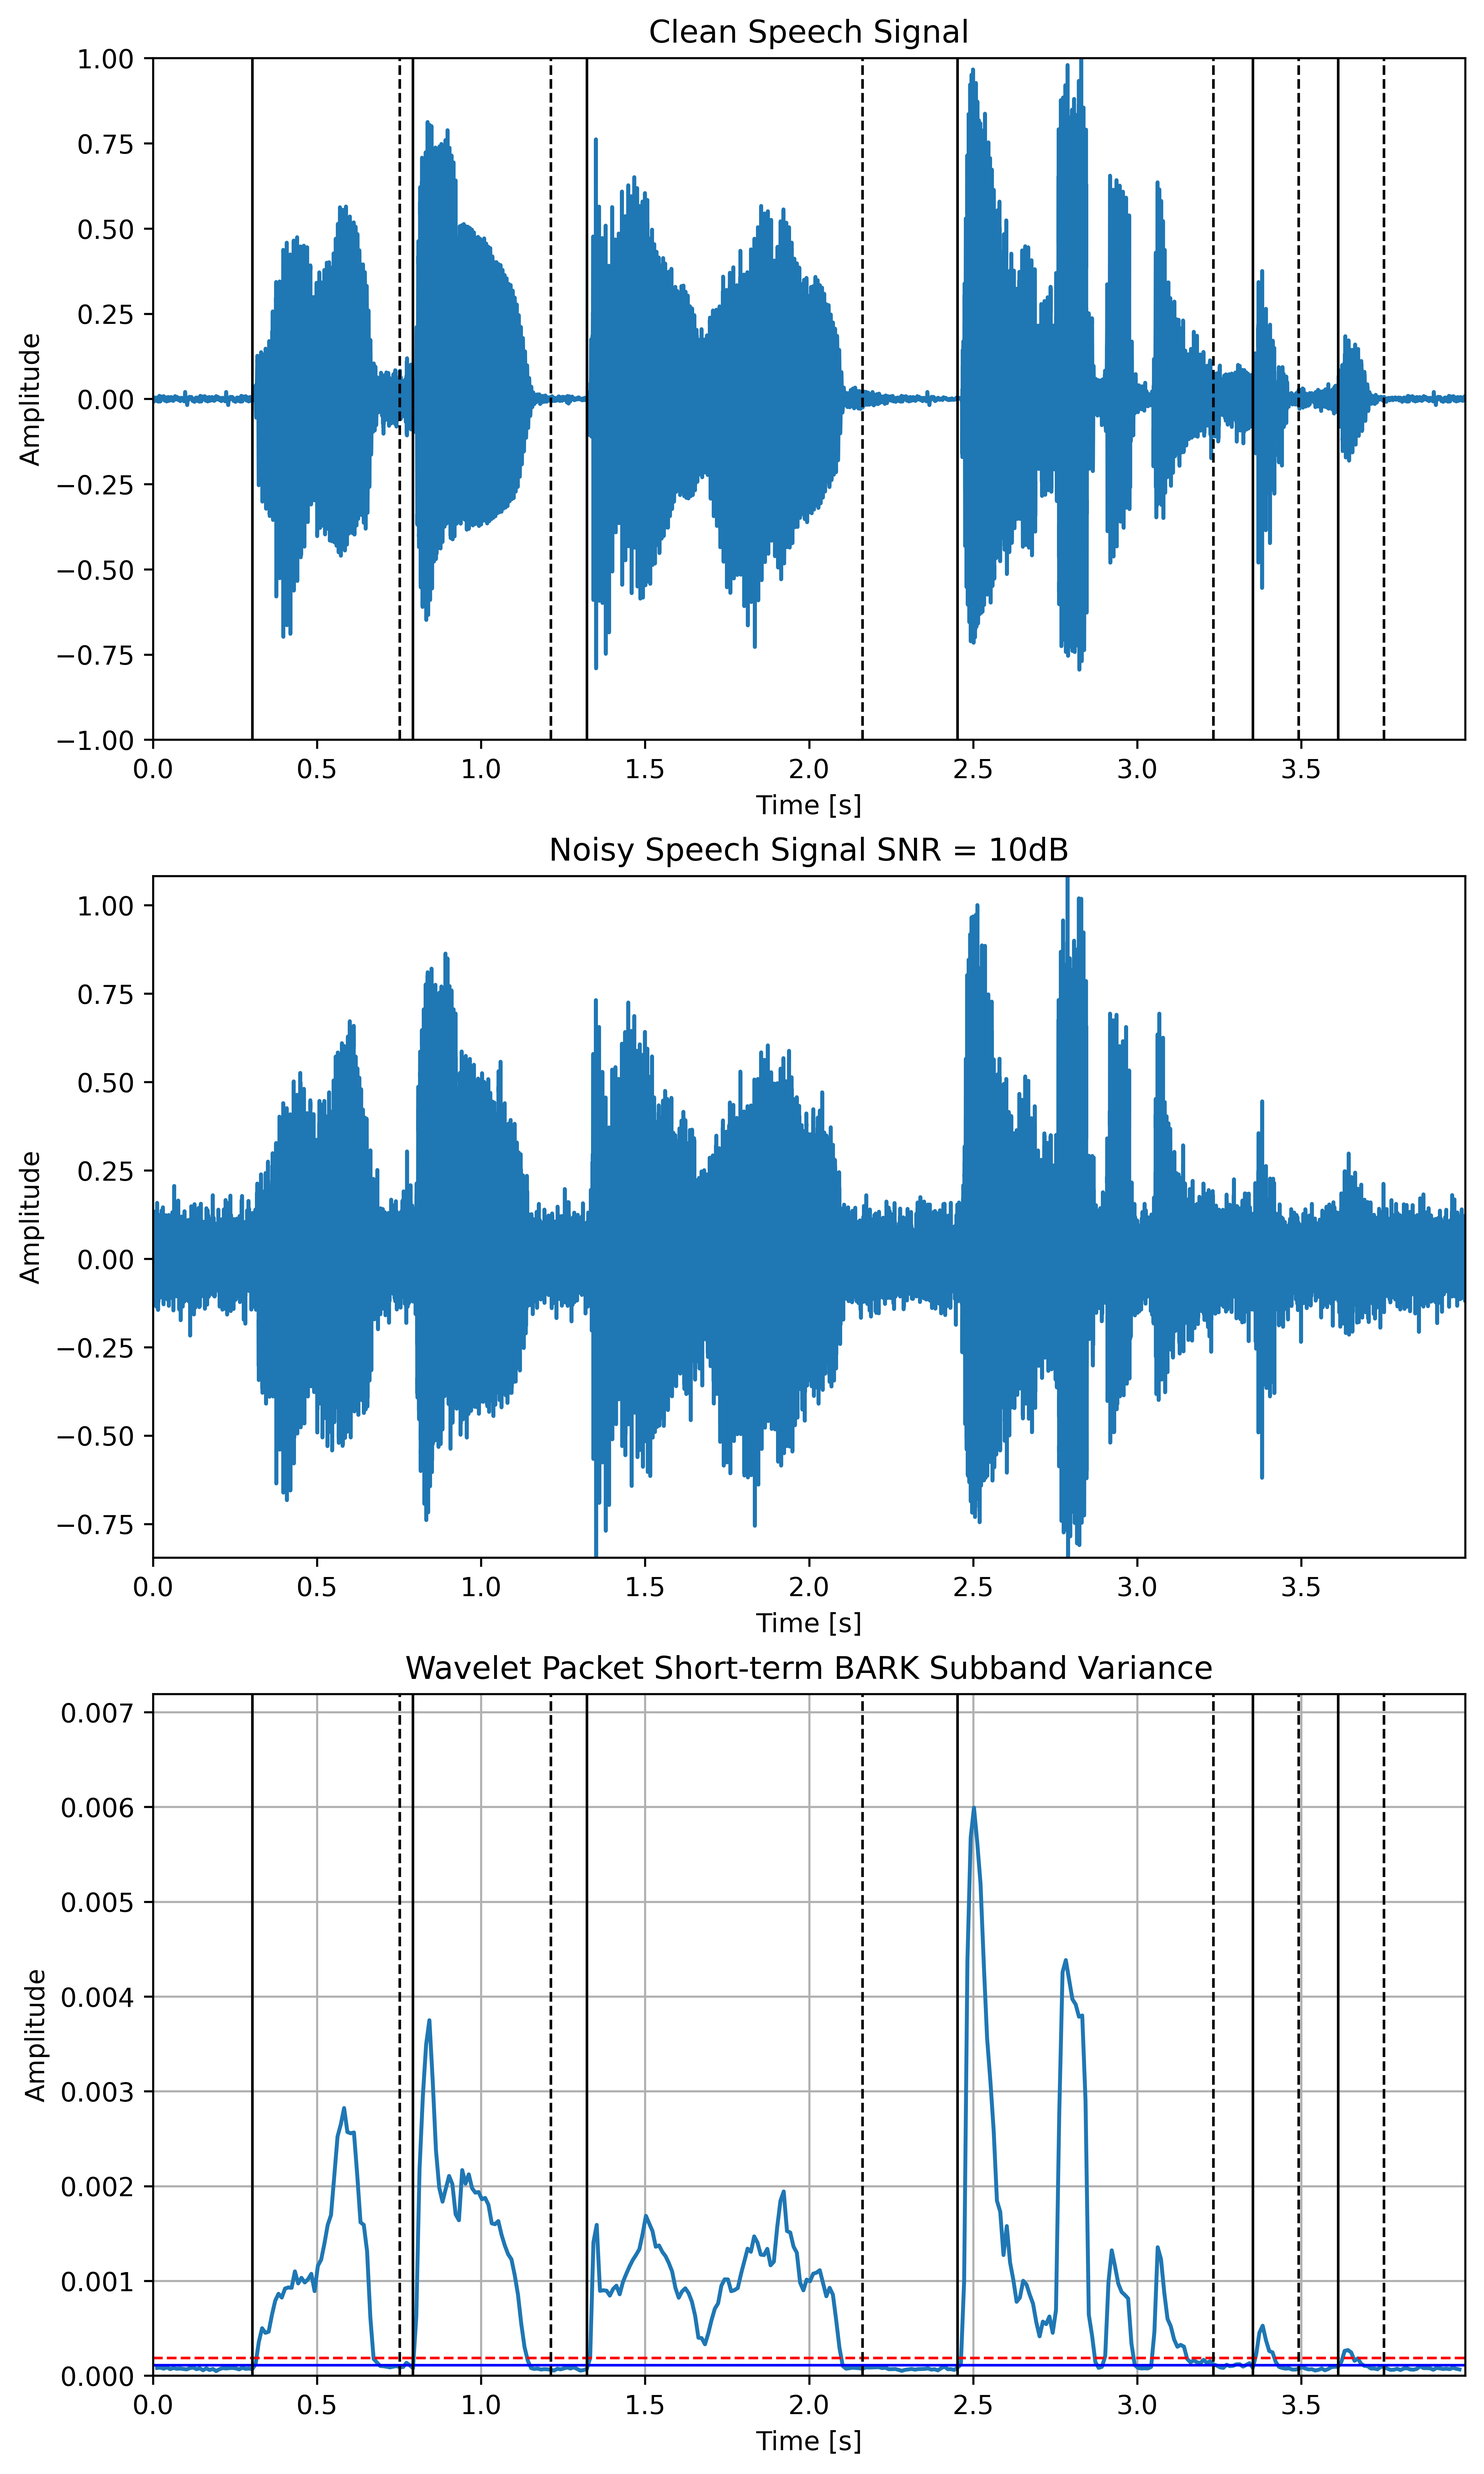
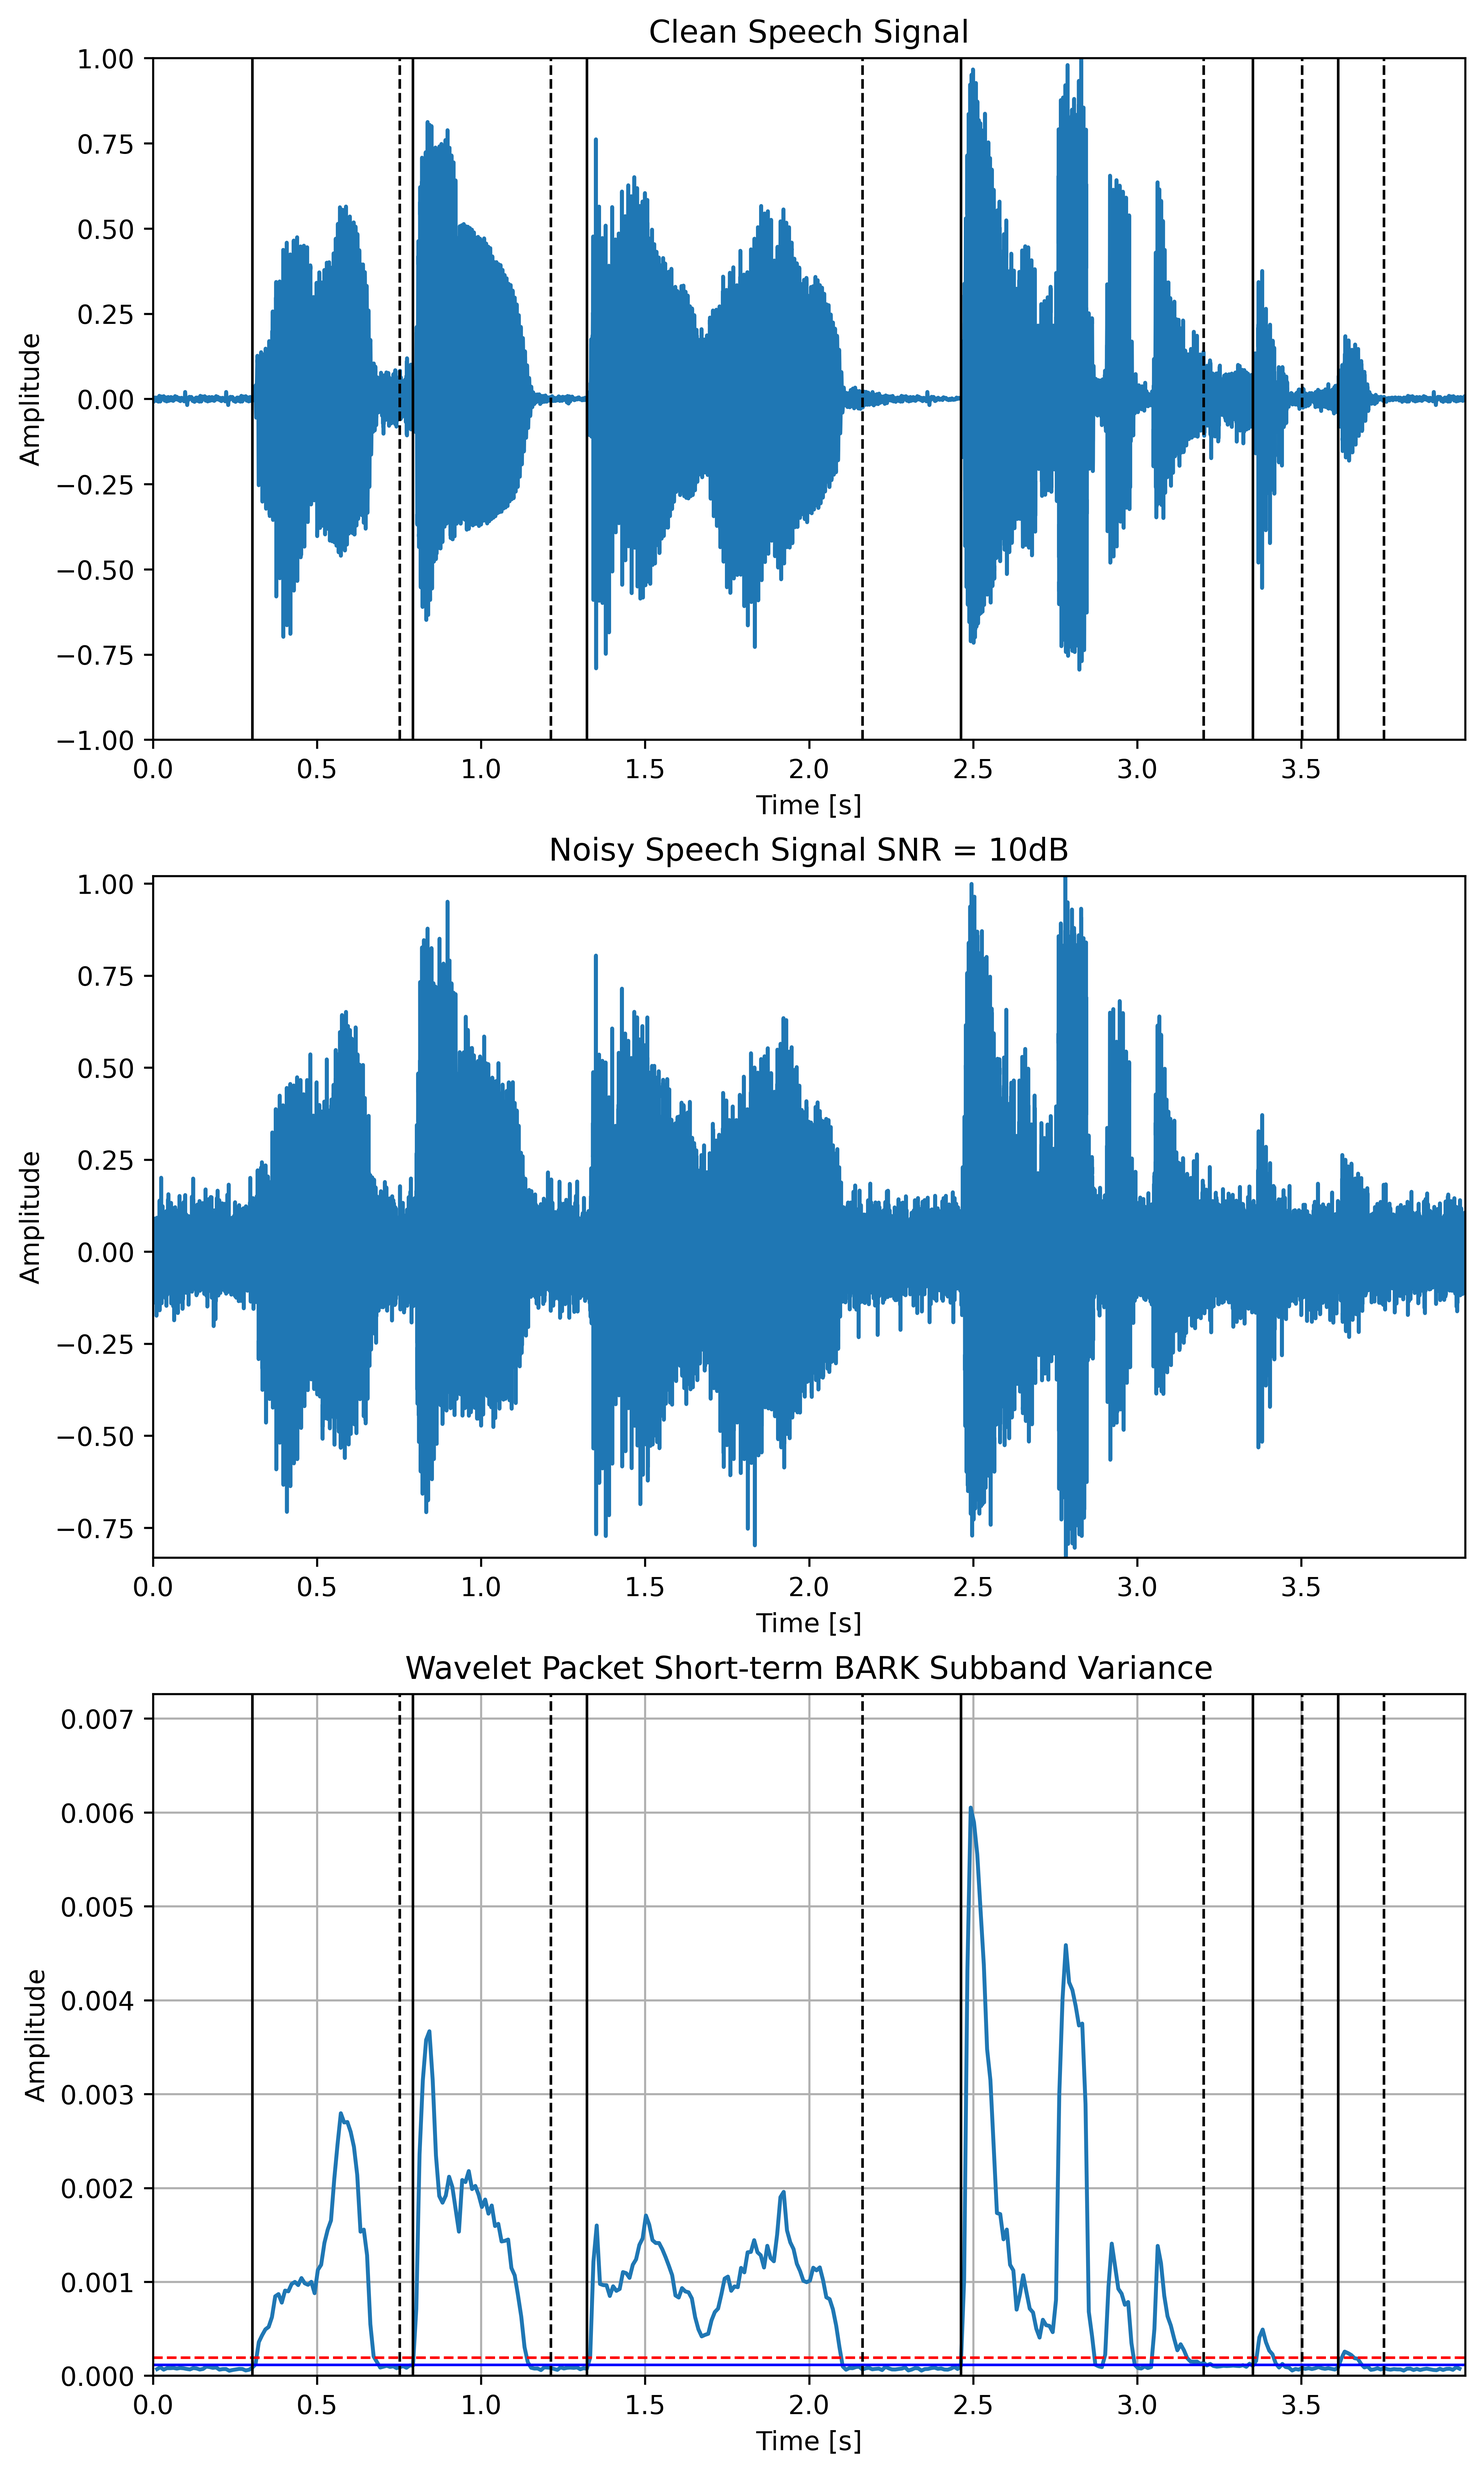
VAD(wavelet packet BASK sub-band variance)

diff --git a/Chapter6_EndpointDetection/pr6_4_4.py b/Chapter6_EndpointDetection/pr6_4_4.py
@@ -36,28 +36,28 @@ def wavlet_barkms(x,wname,fs):
 	for i in range(8):
 		new_wp[NodeName[4][i]] = map[4][i]
 		y[i, :] = new_wp.reconstruct(update=False)
-		new_wp = WaveletPacket(data=np.zeros(len(x)), wavelet='db2', mode='zero')
+		new_wp = WaveletPacket(data=np.zeros(len(x)), wavelet=wname, mode='zero')
 	
 	new_wp[NodeName[3][4]] = map[3][4]
 	y[8, :] = new_wp.reconstruct(update=False)
-	new_wp = WaveletPacket(data=np.zeros(len(x)), wavelet='db2', mode='zero')
+	new_wp = WaveletPacket(data=np.zeros(len(x)), wavelet=wname, mode='zero')
 	new_wp[NodeName[3][5]] = map[3][5]
 	y[9, :] = new_wp.reconstruct(update=False)
-	new_wp = WaveletPacket(data=np.zeros(len(x)), wavelet='db2', mode='zero')
+	new_wp = WaveletPacket(data=np.zeros(len(x)), wavelet=wname, mode='zero')
 	new_wp[NodeName[4][11]] = map[4][11]
 	y[10, :] = new_wp.reconstruct(update=False)
-	new_wp = WaveletPacket(data=np.zeros(len(x)), wavelet='db2', mode='zero')
+	new_wp = WaveletPacket(data=np.zeros(len(x)), wavelet=wname, mode='zero')
 	new_wp[NodeName[4][12]] = map[4][12]
 	y[11, :] = new_wp.reconstruct(update=False)
-	new_wp = WaveletPacket(data=np.zeros(len(x)), wavelet='db2', mode='zero')
+	new_wp = WaveletPacket(data=np.zeros(len(x)), wavelet=wname, mode='zero')
 	new_wp[NodeName[3][7]] = map[3][7]
 	y[12, :] = new_wp.reconstruct(update=False)
-	new_wp = WaveletPacket(data=np.zeros(len(x)), wavelet='db2', mode='zero')
+	new_wp = WaveletPacket(data=np.zeros(len(x)), wavelet=wname, mode='zero')
 	
 	for i in range(4, 8):
 		new_wp[NodeName[2][i]] = map[2][i]
 		y[9 + i, :] = new_wp.reconstruct(update=False)
-		new_wp = WaveletPacket(data=np.zeros(len(x)), wavelet='db2', mode='zero')
+		new_wp = WaveletPacket(data=np.zeros(len(x)), wavelet=wname, mode='zero')
 	
 	return y
 	
